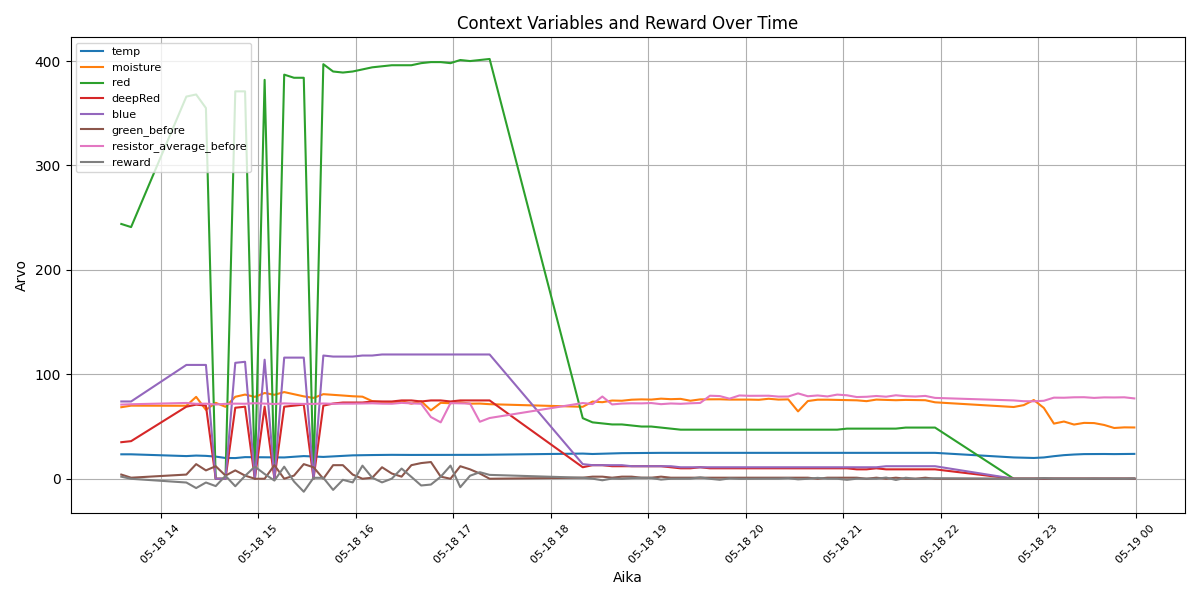
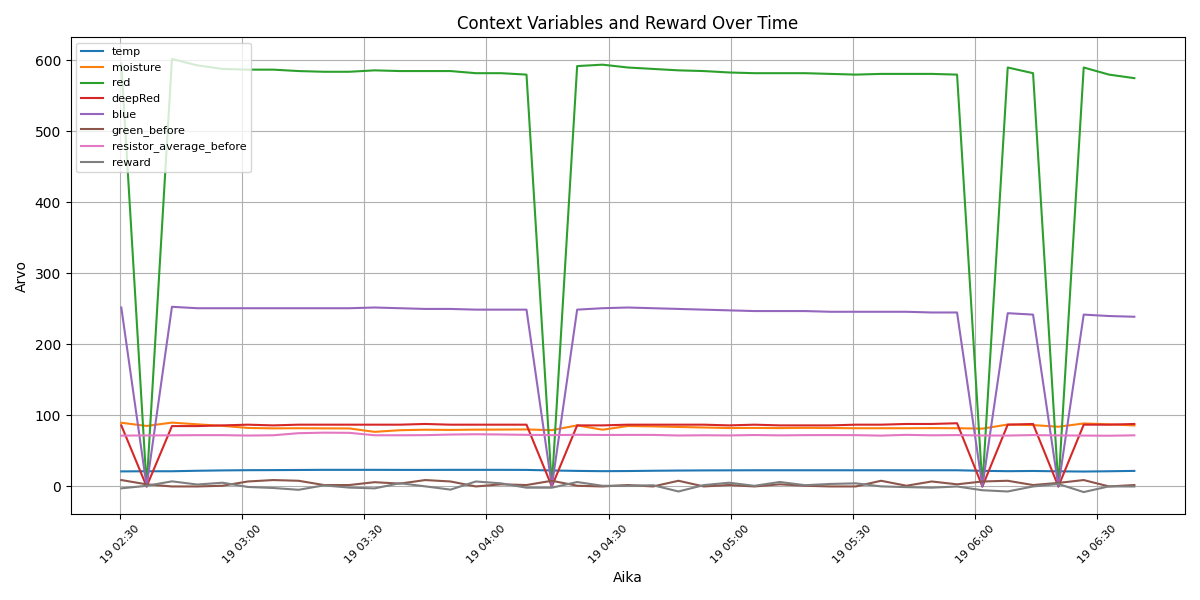
Final commit. Se on ohi!

diff --git a/graafinenKuvaLuoja.py b/graafinenKuvaLuoja.py
@@ -2,13 +2,17 @@ import pandas as pd
 import matplotlib.pyplot as plt
 import os
 import matplotlib.dates as mdates
+from matplotlib.animation import FuncAnimation
 
 # CSV-tiedoston nimi
 csv_file = "kasvuloki.csv"
 
-# Aikarajat graafeihin (muotoa "HH:MM")
-START_TIME = "0:00"
-END_TIME = "3:00"
+# Aikarajat graafeihin ja animaatioon (muotoa "YYYY-MM-DD HH:MM")
+START_TIME = "2025-05-19 02:30"
+END_TIME = "2025-05-19 07:00"
+ANIMATED_VAR = "reward"  # Muuttuja, josta tehdään animaatio
+ANIMATION_INTERVAL = 300  # ms per frame
+ANIMATION_FILENAME = "animated_reward.gif"
 
 # Tarkista, että tiedosto on olemassa
 if not os.path.exists(csv_file):
@@ -36,9 +40,9 @@ if "timestamp" in df.columns:
     df = df[df.index.to_series().diff().fillna(pd.Timedelta(seconds=0)) <= pd.Timedelta(minutes=10)]
 
     # Suodatetaan aikarajan mukaan
-    start_t = pd.to_datetime(START_TIME).time()
-    end_t = pd.to_datetime(END_TIME).time()
-    df = df[(df.index.time >= start_t) & (df.index.time <= end_t)]
+    start_dt = pd.to_datetime(START_TIME)
+    end_dt = pd.to_datetime(END_TIME)
+    df = df[(df.index >= start_dt) & (df.index <= end_dt)]
 
     # Poistetaan duplikaattipäivät: jätetään vain uusin per päivä
     df = df[~df.index.duplicated(keep='last')]
@@ -49,7 +53,7 @@ for var in variables:
         plt.figure()
         plt.plot(df.index, df[var], marker='o')  # Käytetään aikaleima-akselia
         plt.title(var.capitalize())
-        plt.xlabel("Kellonaika", fontsize=8)
+        plt.xlabel("Aika", fontsize=8)
         plt.ylabel(var)
         plt.xticks(fontsize=6, rotation=45)
         plt.gca().xaxis.set_major_formatter(mdates.DateFormatter('%H:%M'))
@@ -58,4 +62,33 @@ for var in variables:
         plt.savefig(f"plot_{var}.png")  # Tallennetaan kuva tiedostoksi
         plt.close()
 
-print("Kuvaajat luotu tiedostoista. Tarkista .png-tiedostot.")
+# Luodaan animaatio valitusta muuttujasta
+if ANIMATED_VAR in df.columns:
+    fig, ax = plt.subplots()
+    x_data, y_data = [], []
+    line, = ax.plot([], [], marker='o')
+
+    ax.set_title(f"{ANIMATED_VAR.capitalize()} over Time")
+    ax.set_xlabel("Aika")
+    ax.set_ylabel(ANIMATED_VAR)
+    ax.set_xlim(df.index.min(), df.index.max())
+    ax.set_ylim(df[ANIMATED_VAR].min() * 0.95, df[ANIMATED_VAR].max() * 1.05)
+    ax.xaxis.set_major_formatter(mdates.DateFormatter('%H:%M'))
+    plt.xticks(fontsize=6, rotation=45)
+    ax.grid(True)
+
+    def init():
+        line.set_data([], [])
+        return line,
+
+    def update(frame):
+        x_data.append(df.index[frame])
+        y_data.append(df[ANIMATED_VAR].iloc[frame])
+        line.set_data(x_data, y_data)
+        return line,
+
+    ani = FuncAnimation(fig, update, frames=len(df), init_func=init, blit=True, interval=ANIMATION_INTERVAL)
+    ani.save(ANIMATION_FILENAME, writer='pillow')
+    plt.close()
+
+print("Kuvaajat ja animaatio luotu. Tarkista .png- ja .gif-tiedostot.")

diff --git a/contextRewardPlot.py b/contextRewardPlot.py
@@ -4,8 +4,8 @@ import os
 from datetime import datetime
 
 # 🎯 Aseta graafin alku- ja loppuaika (tai jätä None jos haluat koko datasetin)
-GRAPH_START = "2025-05-19 01:00:00"  # tai esim. "2025-05-18"
-GRAPH_END   = "2025-05-19 03:00:00"  # tai None
+GRAPH_START = "2025-05-19 02:30:00"  # tai esim. "2025-05-18"
+GRAPH_END   = "2025-05-19 07:00:00"  # tai None
 
 # Muunna datetime-objekteiksi jos määritetty
 start_time = pd.to_datetime(GRAPH_START) if GRAPH_START else None
